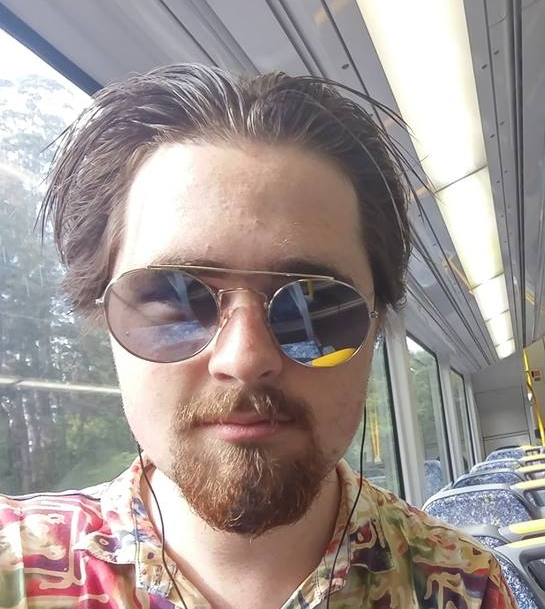
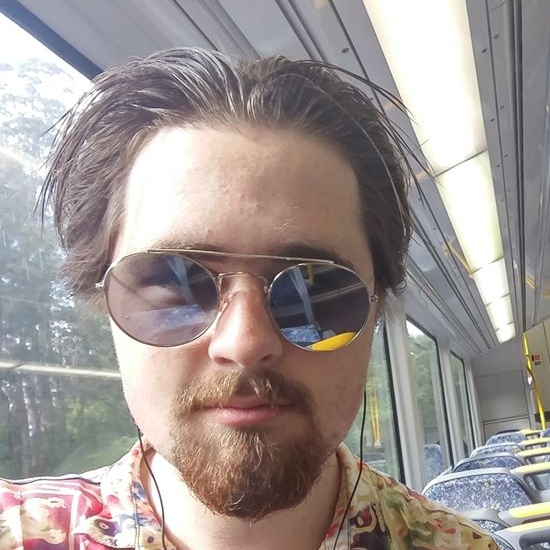
Update website for 2020
- Update copyright notice
- Make image an actual circle
- Add NCSS experience
- Add Only Human project
- Remove Chess m8, I think it's been long enough, and also four of each
  (experience and progress) is kind of nice.

diff --git a/index.html b/index.html
@@ -9,7 +9,7 @@
         <meta name="google-site-verification" content="LqBODs90zdSARQ0SyTFkvuYUUhPRb54O4G55xeMoBCE" />
     </head>
     <body>
-      <div class="intro">
+      <section class="intro">
         <img src="me.jpg"/>
         <div>
           <p>Hi. I'm <b>James</b>.</p>
@@ -47,7 +47,7 @@
             </a>
           </div>
         </div>
-      </div>
+      </section>
       <h1>Tech</h1>
       <div class="icon-row">
         <a href="https://www.python.org/" target="_blank" title="Python">
@@ -128,6 +128,15 @@
         SUITS). My role is systems administrator, and I am responsible for
         maintaining all the tech the society uses.
       <p>
+      <h2>NCSS Summer School</h2>
+      <p>
+        In January of 2020 I volunteered as a tutor in the web stream of the
+        <a href="https://ncss.edu.au/" target="_blank">
+          National Computer Science School
+        </a> (NCSS) summer school, an intensive 10
+        day computer science education program for high school students, in
+        which I assisted students learning python and web technologies.
+      </p>
       <h2>Mentoring</h2>
       <p>
         During semester 1 of 2019 I volunteered as a mentor in tutorials for
@@ -136,6 +145,23 @@
         with various questions relating to the subject and assisted the tutor.
       </p>
       <h1>Projects</h1>
+      <h2>Eventual</h2>
+      <p>
+        <a href="https://eventual.app" target="_blank">Eventual</a> is a just
+        barely working solution to the problem of getting programmatic access to
+        facebook page events for a page you control. Now, of course, facebook's
+        graph API does allow you to do this, but it requires you to handle a
+        bunch of auth stuff, and have access tokens and permissions etc, etc.
+        Sometimes you don't have or want that, you want to make a static
+        site and you really don't want users to have to sign in to facebook, or
+        you want more control over how the events will be displayed than the
+        facebook page plugin thingo will give you.
+      </p>
+      <p>
+        Eventual provides a site you can log in to, and authorise for access to
+        a page. It then just acts as a middleman between you and the graph API,
+        providing you with a URL which will serve JSON data about the events.
+      </p>
       <h2>Sweetrolls</h2>
       <p>
         Sweetrolls is a personal project that I have taken on, that aims to be
@@ -155,6 +181,25 @@
         authentication, and editable rooms and buttons, but it does not yet
         have the ability for multiple users to view the same room.
       </p>
+      <h2>Only Human</h2>
+      <p>
+        <a href="https://github.com/thewrongjames/only-human" target="_blank">
+          Only Human
+        </a> is rather clearly an odd one out in this list. It is a simple
+        tabletop RPG ruleset, for when you don't want your player's characters
+        to have magic powers. It is very heavily inspired by the
+        <a href="https://deadsimplerpg.wordpress.com/about/" target="_blank">
+          Dead Simple RPG
+        </a> games (particularly blaster), but presentationally and mechanically
+        changed slightly to a system / format that I prefer.
+      </p>
+      <p>
+        The current rules document includes the rather bare bones game rules
+        (character creation, tests / skill checks, actions, combat), an example
+        of how that could be implemented (the equipment and player roles that
+        flesh out a game in a sci-fi setting), and some tips on how to run a
+        game with core rules that fit on a single page.
+      </p>
       <h2>WrightWhy</h2>
       <p>
         WrightWhy is my <a href="https://www.wrightwhy.com/" target="_blank">
@@ -163,20 +208,12 @@
         level courses, and the other about why I was wrong about that maths), it
         may well one day come to contain more.
       </p>
-      <h2>Chessm8</h2>
-      <p>
-        Parts of <a href="www.chessm8.net">Chessm8</a> formed parts of my major
-        projects for both my HSC IPT and HSC Software courses. It is a rather
-        basic chess web app with no user discovery, and none of the bots it
-        promises, but it was, I think, a pretty solid accomplishment for me at
-        the time (2017, oh I was so young and naive then).
-      </p>
-      <p>
-        Oh, also, I think castling might be broken.
-      </p>
-      <div class="footer">
-        <p>Made, with <span role="img" aria-label="love">❤</span>, by James Wright</p>
-        <p>© 2019</p>
-      </div>
+      <footer>
+        <p>
+          Made, with <span role="img" aria-label="love">❤</span>, by James
+          Wright
+        </p>
+        <p>© 2020</p>
+      </footer>
     </body>
 </html>

diff --git a/styles.css b/styles.css
@@ -37,7 +37,7 @@ h1, h2, h3, h4, h5, h6, b {
   width: 100%;
   margin: auto;
   max-width: 250px;
-  border-radius: 100%;
+  border-radius: 50%;
 }
 
 .icon-row {
@@ -58,7 +58,7 @@ h1, h2, h3, h4, h5, h6, b {
   fill: var(--highlight-colour);
 }
 
-.footer {
+footer {
   text-align: center;
   margin-top: 40px;
   border-top: 2px solid var(--main-colour);

diff --git a/404.html b/404.html
@@ -10,6 +10,6 @@
   <body>
     <h1>404 - Not Found</h1>
     <p>Sorry, looks like we can't find what you are looking for.</p>
-    <p>Would you like to go <a href="/">home</a>?</p>
+    <p>But, there's no place like <a href="/">home</a>.</p>
   </body>
 </html>

diff --git a/README.md b/README.md
@@ -1,2 +1,3 @@
 # thewrongjames.com
+
 The github pages portfolio site for stuff that I do.
